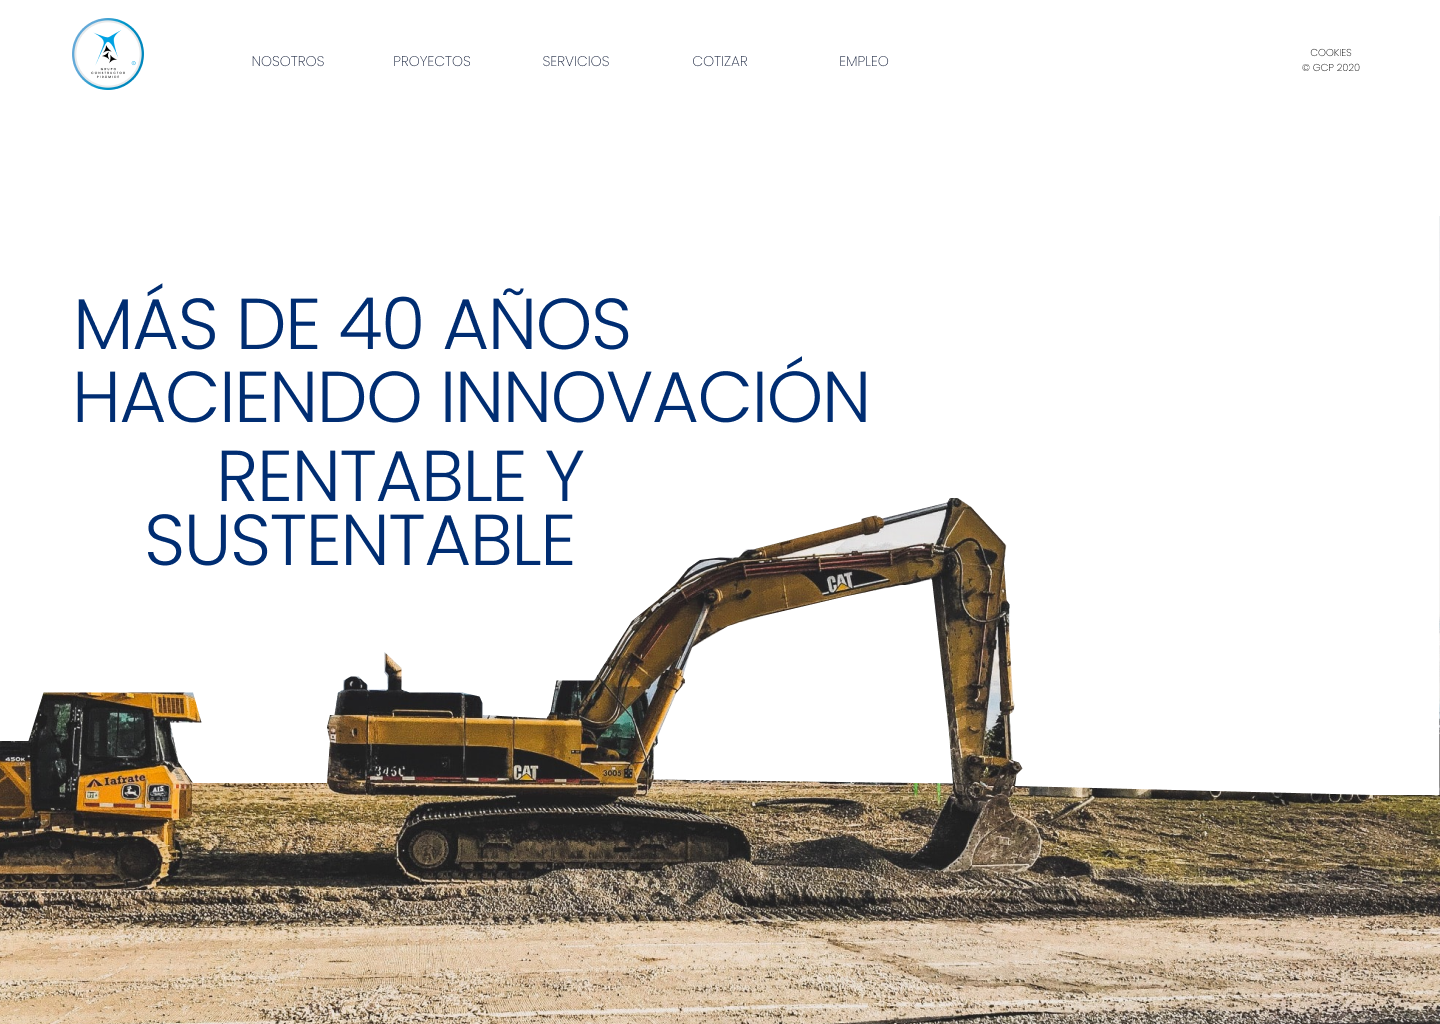
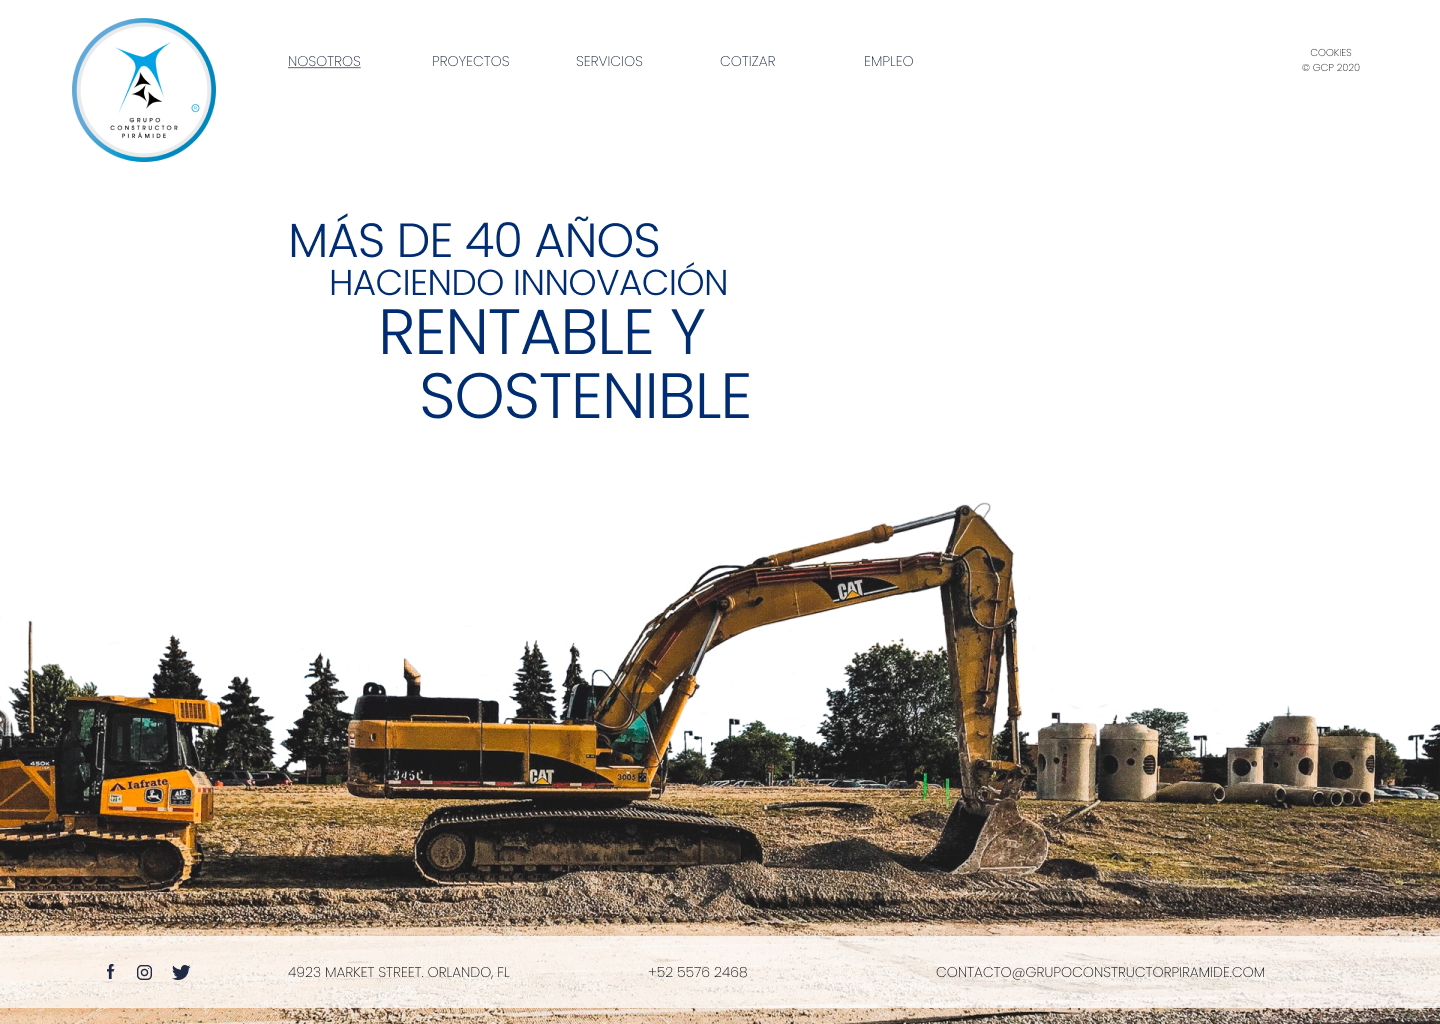
landing footer fix

diff --git a/index.html b/index.html
@@ -33,15 +33,15 @@
 <body>
     <nav class="container fixed front">
         <div class="full column">
-            <img src="./img/Logos_Unidades de Negocio/Logo_GCP.png" class="one columns half-top-margin" />
+            <img src="./img/Logos_Unidades de Negocio/Logo_GCP.png" class="two columns half-top-margin" />
             <div class="one-offset columns ten one-height mobile-hide">
-                <a href="./nosotros" class="two columns text-center block navbar-link one-top-margin-text">NOSOTROS</a>
-                <a href="./proyectos" class="two columns text-center block navbar-link one-top-margin-text">PROYECTOS</a>
-                <a href="./servicios/" class="two columns text-center block navbar-link one-top-margin-text">SERVICIOS</a>
-                <a href="./cotizar" class="two columns text-center block navbar-link one-top-margin-text">COTIZAR</a>
-                <a href="./empleo" class="two columns text-center block navbar-link one-top-margin-text">EMPLEO</a>
+                <a href="./nosotros" class="two columns block navbar-link one-top-margin-text">NOSOTROS</a>
+                <a href="./proyectos" class="two columns block navbar-link one-top-margin-text">PROYECTOS</a>
+                <a href="./servicios/" class="two columns block navbar-link one-top-margin-text">SERVICIOS</a>
+                <a href="./cotizar" class="two columns block navbar-link one-top-margin-text">COTIZAR</a>
+                <a href="./empleo" class="two columns block navbar-link one-top-margin-text">EMPLEO</a>
             </div>
-            <div class="five-offset one columns mobile-hide">
+            <div class="four-offset one columns mobile-hide">
                 <p class="text-right small-link one-top-margin-text">COOKIES<br>© GCP 2020</p>
             </div>
         </div>
@@ -90,14 +90,48 @@
 
     <div class="fullscreen background-cover absolute back-2"></div>
 
-    <div class="container five-height">
-        <h1 class="margin-none columns two-top-margin twenty title-header one-height headers-cotepsa">Más de 40 años</h1>
-        <h1 class="margin-none columns twenty title-header one-height headers-cotepsa mobile-hide">Haciendo innovación</h1>
-        <h1 class="margin-none columns twenty title-header one-height headers-cotepsa mobile-show">Haciendo</h1>
-        <h1 class="margin-none columns twenty title-header one-height headers-cotepsa mobile-show">innovación</h1>
-        <h1 class="margin-none two-offset columns twenty title-header one-height headers-cotepsa">Rentable y</h1>
-        <h1 class="margin-none one-offset columns twenty title-header one-height headers-cotepsa">sostenible</h1>
+    <div class="container twenty three-offset columns">
+        <h1 class="margin-none block two-top-margin title-header headers-cotepsa" style="font-size: 3em";>Más de 40 años</h1>
+        <h1 class="margin-none block title-header headers-cotepsa mobile-hide" style="font-size: 2.5em; margin-left: calc(2.5*var(--grid))">Haciendo innovación</h1>
+        <h1 class="margin-none block title-header headers-cotepsa mobile-show" style="font-size: 2.5em; margin-left: calc(2.5*var(--grid))">Haciendo</h1>
+        <h1 class="margin-none block title-header headers-cotepsa mobile-show" style="font-size: 2.5em; margin-left: calc(2.5*var(--grid))">innovación</h1>
+        <h1 class="margin-none block title-header headers-cotepsa" style="font-size: 4em; margin-left: calc(5*var(--grid))">Rentable y</h1>
+        <h1 class="margin-none block title-header headers-cotepsa" style="font-size: 4em; margin-left: calc(7.5*var(--grid))">sostenible</h1>
     </div>
+
+    <footer class="full column absolute bottom one-height">
+        <div class="full column white-bg one-height absolute" style="opacity: 60%;"></div>
+        <div class="container text-right">
+            <div class="two columns text-left">
+                <a class="half-gutter-padding vertical-center-text" href="https://www.facebook.com/" target="_blank">
+                    <svg width="16" height="16" viewBox="0 0 8 16" fill="none" xmlns="http://www.w3.org/2000/svg"
+                        class="margin-auto-sides">
+                        <path d="M5 5.5V3.5C5 2.948 5.448 2.5 6 2.5H7V0H5C3.343 0 2 1.343 2 3V5.5H0V8H2V16H5V8H7L8 5.5H5Z"
+                            fill="var(--headers-gcp)" />
+                    </svg>
+                </a>
+                <a class="half-gutter-padding vertical-center-text" href="https://twitter.com/" target="_blank">
+                    <svg width="16" height="16" viewBox="0 0 16 14" fill="none" xmlns="http://www.w3.org/2000/svg"
+                        class="margin-auto-sides">
+                        <path
+                            d="M16 1.87231C15.405 2.13331 14.771 2.30631 14.11 2.39031C14.79 1.98431 15.309 1.34631 15.553 0.577313C14.919 0.955313 14.219 1.22231 13.473 1.37131C12.871 0.730313 12.013 0.333313 11.077 0.333313C9.261 0.333313 7.799 1.80731 7.799 3.61431C7.799 3.87431 7.821 4.12431 7.875 4.36231C5.148 4.22931 2.735 2.92231 1.114 0.931313C0.831 1.42231 0.665 1.98431 0.665 2.58931C0.665 3.72531 1.25 4.73231 2.122 5.31531C1.595 5.30531 1.078 5.15231 0.64 4.91131C0.64 4.92131 0.64 4.93431 0.64 4.94731C0.64 6.54131 1.777 7.86531 3.268 8.17031C3.001 8.24331 2.71 8.27831 2.408 8.27831C2.198 8.27831 1.986 8.26631 1.787 8.22231C2.212 9.52131 3.418 10.4763 4.852 10.5073C3.736 11.3803 2.319 11.9063 0.785 11.9063C0.516 11.9063 0.258 11.8943 0 11.8613C1.453 12.7983 3.175 13.3333 5.032 13.3333C11.068 13.3333 14.368 8.33331 14.368 3.99931C14.368 3.85431 14.363 3.71431 14.356 3.57531C15.007 3.11331 15.554 2.53631 16 1.87231Z"
+                            fill="var(--headers-gcp)" />
+                    </svg>
+                </a>
+                <a class="half-gutter-padding vertical-center-text" href="https://www.instagram.com/" target="_blank">
+                    <svg width="16" height="16" viewBox="0 0 16 16" fill="none" xmlns="http://www.w3.org/2000/svg"
+                        class="margin-auto-sides">
+                        <path fill-rule="evenodd" clip-rule="evenodd"
+                            d="M5 0H11C13.761 0 16 2.239 16 5V11C16 13.761 13.761 16 11 16H5C2.239 16 0 13.761 0 11V5C0 2.239 2.239 0 5 0ZM11 14.5C12.93 14.5 14.5 12.93 14.5 11V5C14.5 3.07 12.93 1.5 11 1.5H5C3.07 1.5 1.5 3.07 1.5 5V11C1.5 12.93 3.07 14.5 5 14.5H11ZM4 8C4 5.791 5.791 4 8 4C10.209 4 12 5.791 12 8C12 10.209 10.209 12 8 12C5.791 12 4 10.209 4 8ZM5.5 8C5.5 9.378 6.622 10.5 8 10.5C9.378 10.5 10.5 9.378 10.5 8C10.5 6.621 9.378 5.5 8 5.5C6.622 5.5 5.5 6.621 5.5 8ZM12.833 3.7C12.833 3.99437 12.5944 4.233 12.3 4.233C12.0057 4.233 11.767 3.99437 11.767 3.7C11.767 3.40564 12.0057 3.167 12.3 3.167C12.5944 3.167 12.833 3.40564 12.833 3.7Z"
+                            fill="var(--headers-gcp)" />
+                    </svg>
+                </a>
+            </div>
+            <p class="four columns six-offset proyect-name vertical-center-text black bold">4923 Market Street. Orlando, FL</p>
+            <p class="two columns one-offset proyect-name vertical-center-text black bold">+55 5576 2468</p>
+            <p class="two columns one-offset proyect-name vertical-center-text black bold">contacto@gcp.com</p>
+        </div>
+    </footer>
 </body>
 
 </html>

diff --git a/css/main.css b/css/main.css
@@ -412,6 +412,10 @@ body {
     max-width: none;
 }
 
+.bold {
+    font-weight: 300;
+}
+
 .float-right {
     float: right;
 }
